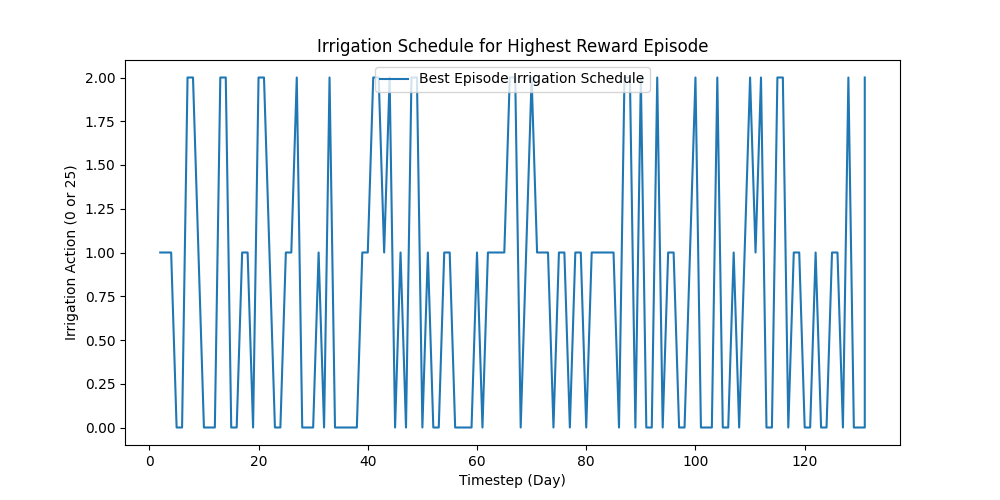
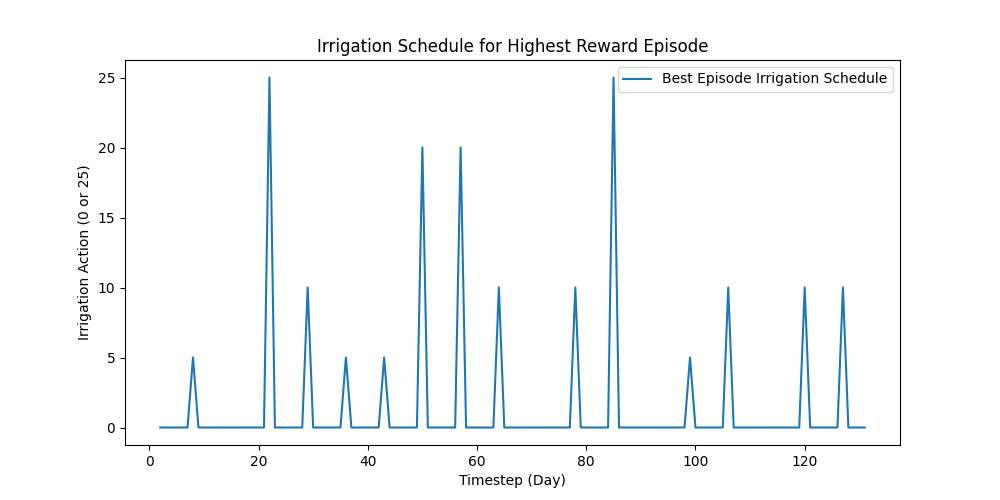
add 7 days interval

diff --git a/train.py b/train.py
@@ -9,18 +9,6 @@ from stable_baselines3.common.monitor import Monitor
 from sb3_contrib import ARS
 from aquacroprice.envs.rice import Rice
 
-from pearl.pearl_agent import PearlAgent
-from pearl.action_representation_modules.one_hot_action_representation_module import (
-    OneHotActionTensorRepresentationModule,
-)
-from pearl.policy_learners.sequential_decision_making.deep_q_learning import (
-    DeepQLearning,
-)
-from pearl.replay_buffers.sequential_decision_making.fifo_off_policy_replay_buffer import (
-    FIFOOffPolicyReplayBuffer,
-)
-from pearl.utils.instantiations.environments.gym_environment import GymEnvironment
-
 import warnings
 import logging
 
@@ -33,10 +21,10 @@ class RewardLoggingCallback(BaseCallback):
         super(RewardLoggingCallback, self).__init__(verbose)
         self.experiment = experiment
         self.episode_rewards = []
-        self.episode_schedules = []  # Track irrigation schedules per episode
+        self.episode_schedules = []
         self.current_rewards = 0
-        self.highest_reward = -np.inf  # Track the highest reward
-        self.best_schedule = []  # Store the schedule for the best episode
+        self.highest_reward = -np.inf
+        self.best_schedule = []
 
     def _on_step(self) -> bool:
         if 'rewards' in self.locals:
@@ -44,30 +32,26 @@ class RewardLoggingCallback(BaseCallback):
             self.current_rewards += mean_reward
 
         if 'dones' in self.locals and any(self.locals['dones']):
-            # Retrieve total irrigation at the end of the episode
             env = self.locals['env'].envs[0]
             total_irrigation = env.unwrapped.model._outputs.final_stats['Seasonal irrigation (mm)'].mean()
 
-            # Log data at the end of the episode
             self.episode_rewards.append(self.current_rewards)
-            self.episode_schedules.append(env.unwrapped.irrigation_schedule)  # Store irrigation schedule
+            self.episode_schedules.append(env.unwrapped.irrigation_schedule)
 
-            # Check if this episode has the highest reward so far
             if self.current_rewards > self.highest_reward:
                 self.highest_reward = self.current_rewards
-                self.best_schedule = env.unwrapped.irrigation_schedule.copy()  # Store the best schedule
+                self.best_schedule = env.unwrapped.irrigation_schedule.copy()
 
             self.experiment.log_metric("reward", self.current_rewards, step=len(self.episode_rewards))
 
-            # Reset counters for the next episode
             self.current_rewards = 0
-            env.unwrapped.irrigation_schedule = []  # Clear schedule for next episode
+            env.unwrapped.irrigation_schedule = []
 
         return True
 
     def _on_training_end(self):
         self.plot_rewards()
-        self.plot_irrigation_schedule()  # Plot irrigation schedule for the highest reward episode
+        self.plot_irrigation_schedule()
 
     def plot_rewards(self):
         plt.figure(figsize=(10, 5))
@@ -107,46 +91,34 @@ train_env = DummyVecEnv([lambda: Monitor(Rice(mode='train', year1=1982, year2=20
 reward_logging_callback = RewardLoggingCallback(experiment)
 
 # Training parameters (shared among algorithms)
-train_timesteps = 20000
+train_timesteps = 1000
 
 # Define algorithms and hyperparameters with exploration encouragement
 algorithms = {
     "PPO": PPO(
         "MlpPolicy", train_env, verbose=1,
-        learning_rate=5e-4,  # Lower learning rate for more exploration
-        n_steps=4096,        # More steps before each update to encourage diverse experiences
+        learning_rate=5e-4,
+        n_steps=4096,
         batch_size=64,
         n_epochs=10,
-        ent_coef=0.01        # Entropy coefficient to maintain exploration
+        ent_coef=0.01
     ),
     "DQN": DQN(
         "MlpPolicy", train_env, verbose=1,
         learning_rate=1e-3,
-        buffer_size=100000,  # Larger buffer size for more varied experiences
+        buffer_size=100000,
         batch_size=64,
-        target_update_interval=1000,  # Less frequent updates to encourage exploration
-        exploration_initial_eps=1.0,  # Start with full exploration
-        exploration_final_eps=0.1,    # Maintain some exploration throughout training
-        exploration_fraction=0.2      # Slower decay of exploration rate
+        target_update_interval=1000,
+        exploration_initial_eps=1.0,
+        exploration_final_eps=0.1,
+        exploration_fraction=0.2
     ),
     "ARS": ARS(
         "MlpPolicy", train_env, verbose=1,
-        n_delta=64,  # More perturbations for broader exploration
+        n_delta=64,
         n_top=16,
-        delta_std=0.05  # Higher noise for more exploration
+        delta_std=0.05
     ),
-    "Pearl": PearlAgent(
-        policy_learner=DeepQLearning(
-            state_dim=train_env.observation_space.shape[0],
-            action_space=train_env.action_space,
-            hidden_dims=[64, 64],
-            training_rounds=20,
-            action_representation_module=OneHotActionTensorRepresentationModule(
-                max_number_actions=train_env.action_space.n
-            ),
-        ),
-        replay_buffer=FIFOOffPolicyReplayBuffer(10_000),
-    )
 }
 
 # Define the Random Agent
@@ -156,12 +128,12 @@ class RandomAgent:
 
     def predict(self, observation, state=None, episode_start=None, deterministic=False):
         action = self.action_space.sample()
-        return [action], state  # Return the action as a list
+        return [action], state
 
 # Initialize the random agent
 random_agent = RandomAgent(train_env.action_space)
 
-# Train and evaluate each algorithm
+# Train and evaluate PPO, DQN, and ARS
 mean_rewards = []
 std_rewards = []
 agents = []
@@ -170,17 +142,14 @@ for name, model in algorithms.items():
     print(f"Training {name} with enhanced exploration...")
     model.learn(total_timesteps=train_timesteps, callback=reward_logging_callback)
     
-    # Create the environment for evaluation
     eval_env = DummyVecEnv([lambda: Monitor(Rice(mode='eval', year1=2003, year2=2018))])
     
     print(f"Evaluating {name}...")
     mean_reward, std_reward = evaluate_policy(model, eval_env, n_eval_episodes=1000, return_episode_rewards=False, deterministic=False)
     
-    # Log evaluation results to Comet.ml
     experiment.log_metric(f"{name}_mean_reward", mean_reward)
     experiment.log_metric(f"{name}_std_reward", std_reward)
     
-    # Store results for comparison
     mean_rewards.append(mean_reward)
     std_rewards.append(std_reward)
     agents.append(name)
@@ -189,11 +158,9 @@ for name, model in algorithms.items():
 print("Evaluating Random Agent...")
 mean_reward, std_reward = evaluate_policy(random_agent, eval_env, n_eval_episodes=1000, return_episode_rewards=False)
 
-# Log evaluation results to Comet.ml
 experiment.log_metric(f"RandomAgent_mean_reward", mean_reward)
 experiment.log_metric(f"RandomAgent_std_reward", std_reward)
 
-# Store results for comparison
 mean_rewards.append(mean_reward)
 std_rewards.append(std_reward)
 agents.append("RandomAgent")

diff --git a/aquacroprice/envs/rice.py b/aquacroprice/envs/rice.py
@@ -28,6 +28,7 @@ class Rice(gym.Env):
         print("Initializing Rice environment...")
         self.render_mode = render_mode
         self.days_to_irr = config["days_to_irr"]
+        self.day_counter = 0  # Counter to track days since the last action
 
         # If year1 and year2 are provided, override the default config
         self.year1 = year1 if year1 is not None else config["year1"]
@@ -35,7 +36,7 @@ class Rice(gym.Env):
 
         self.init_wc = config["init_wc"]
         self.climate = config['climate']
-        self.irrigation_schedule = [] # Store Irrigation Schedule
+        self.irrigation_schedule = []  # Store Irrigation Schedule
         self.mode = mode  # 'train' or 'eval'
         
         soil = config['soil']
@@ -48,10 +49,8 @@ class Rice(gym.Env):
         # Define observation space: Includes weather-related observations
         self.observation_space = spaces.Box(low=-np.inf, high=np.inf, shape=(14,), dtype=np.float32)
         
-        # self.action_depths = list(range(0, 26))  # This creates a list from 0 to 25
         self.action_depths = [0, 5, 10, 15, 20, 25]
-        self.action_space = spaces.Discrete(len(self.action_depths))  # Discrete action space with 25 actions
-
+        self.action_space = spaces.Discrete(len(self.action_depths))  # Discrete action space with 6 actions
 
     def reset(self, seed=None, options=None):
         print("Resetting environment...")
@@ -65,7 +64,6 @@ class Rice(gym.Env):
         print(f"Chosen Year: {self.simcalyear}")
 
         crop = config['crop']
-        # self.planting_date = self._get_random_planting_date()
         self.planting_date = '05/01'
 
         if isinstance(crop, str):
@@ -80,8 +78,9 @@ class Rice(gym.Env):
         self.wdf['Year'] = self.simcalyear
 
         self.irr_sched = []
+        self.day_counter = 0  # Reset day counter
 
-        # Initialize the AquaCrop model with irrigation method 1 (for SMT)
+        # Initialize the AquaCrop model
         self.model = AquaCropModel(
             f'{self.simcalyear}/{self.planting_date}', 
             f'{self.simcalyear}/12/31', 
@@ -100,17 +99,6 @@ class Rice(gym.Env):
         info = dict()
 
         return obs, info
-
-    def _get_random_planting_date(self):
-        # Generate a random planting date between January 1 and August 1
-        start_date = datetime.strptime("01/01", "%m/%d")
-        end_date = datetime.strptime("08/01", "%m/%d")
-
-        delta_days = (end_date - start_date).days
-        random_days = np.random.randint(0, delta_days + 1)
-        random_date = start_date + timedelta(days=random_days)
-
-        return random_date.strftime("%m/%d")
 
     def _get_obs(self):
         cond = self.model._init_cond
@@ -162,8 +150,20 @@ class Rice(gym.Env):
         return prev_day_value
 
     def step(self, action):
-        # Scale the action values to the range [0, 100] for SMTs
-        depth = self.action_depths[int(action)]
+        # Increment the day counter
+        self.day_counter += 1
+
+        # Check if 7 days have passed since the last action
+        if self.day_counter >= self.days_to_irr:
+            # Reset the day counter after performing the action
+            self.day_counter = 0
+            # Scale the action values to the corresponding depth
+            depth = self.action_depths[int(action)]
+        else:
+            # Default to no irrigation on other days
+            depth = 0
+
+        # Apply the depth to the model
         self.model._param_struct.IrrMngt.depth = depth
         self.model.run_model(initialize_model=False)
         
@@ -175,20 +175,17 @@ class Rice(gym.Env):
         terminated = self.model._clock_struct.model_is_finished
         
         current_timestep = self.model._clock_struct.time_step_counter
-        self.irrigation_schedule.append((current_timestep, action))
+        self.irrigation_schedule.append((current_timestep, depth))  # Log the applied irrigation depth
         
         if terminated:
             dry_yield = self.model._outputs.final_stats['Dry yield (tonne/ha)'].mean()
             total_irrigation = self.model._outputs.final_stats['Seasonal irrigation (mm)'].mean()
             
             if total_irrigation == 0:
-                # Assign a fixed reward if total irrigation is 0
                 reward = -10  # Fixed penalty reward
             else:
-                # Calculate the normal reward
                 reward = (dry_yield ** 3) - ((total_irrigation + 1) * 15)
 
-            # Logging to help debug and understand the reward structure
             print(f"Dry Yield: {dry_yield}")
             print(f"Total Irrigation: {total_irrigation}")
             print(f"Final Reward: {reward}")
@@ -196,9 +193,3 @@ class Rice(gym.Env):
         info = dict()
 
         return next_obs, reward, terminated, truncated, info
-
-
-
-
-
-
